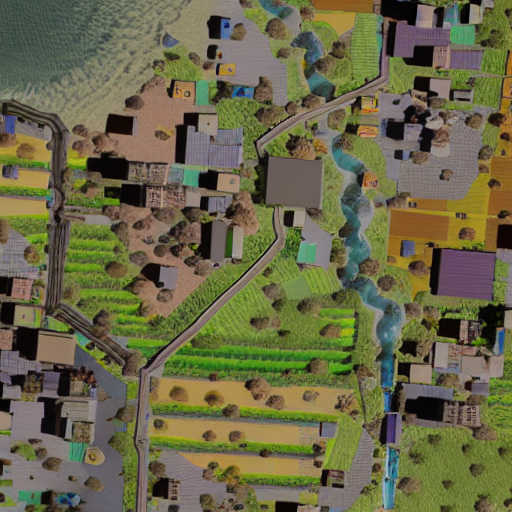
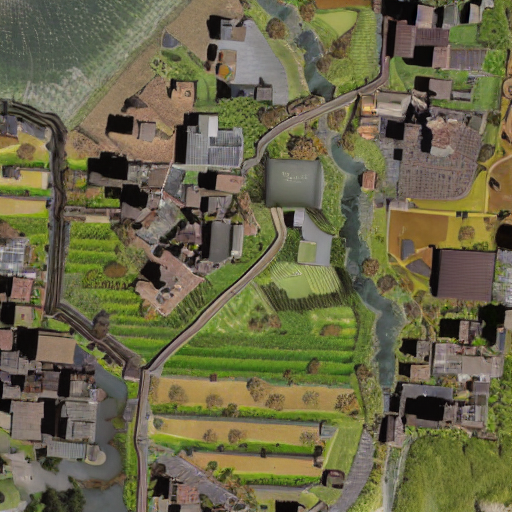
Updated params

diff --git a/hed2image.py b/hed2image.py
@@ -64,12 +64,12 @@ out = pipe(
         image              = src_img,
         control_image      = hed_map, 
         ip_adapter_image   = ref_img,     #color reference
-        strength           = 0.25,        # denoise — keep geometry!
-        num_inference_steps= 50,
-        guidance_scale     = 6,           # CFG
+        strength           = 0.1,        # denoise — keep geometry!
+        num_inference_steps= 75,
+        guidance_scale     = 8,           # CFG
         control_guidance_start = 0.0,  # HED on from the first step …
         control_guidance_end   = 0.9,  # … but disabled after 50 % of steps
-        controlnet_conditioning_scale=0.5,  # weights we chose earlier
+        controlnet_conditioning_scale=1.0,  # weights we chose earlier
         generator          = generator
 ).images[0]
 
